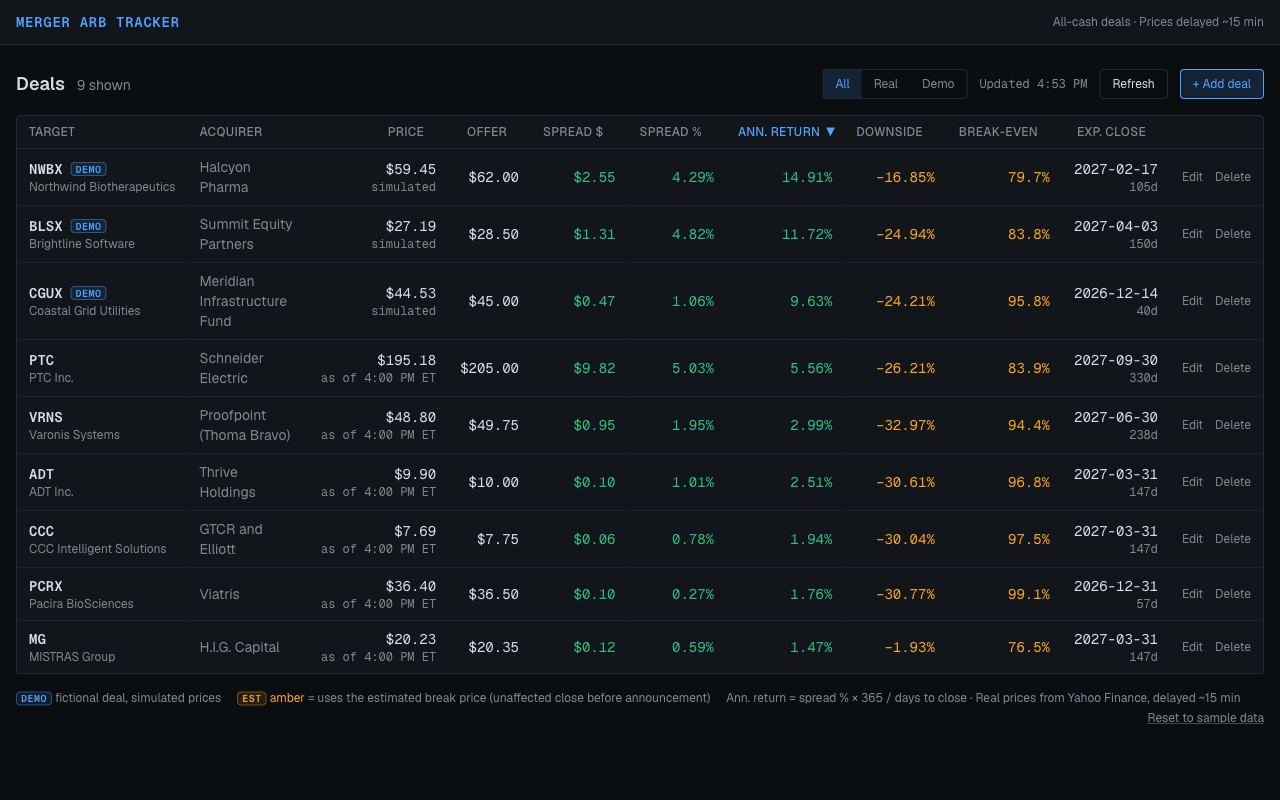
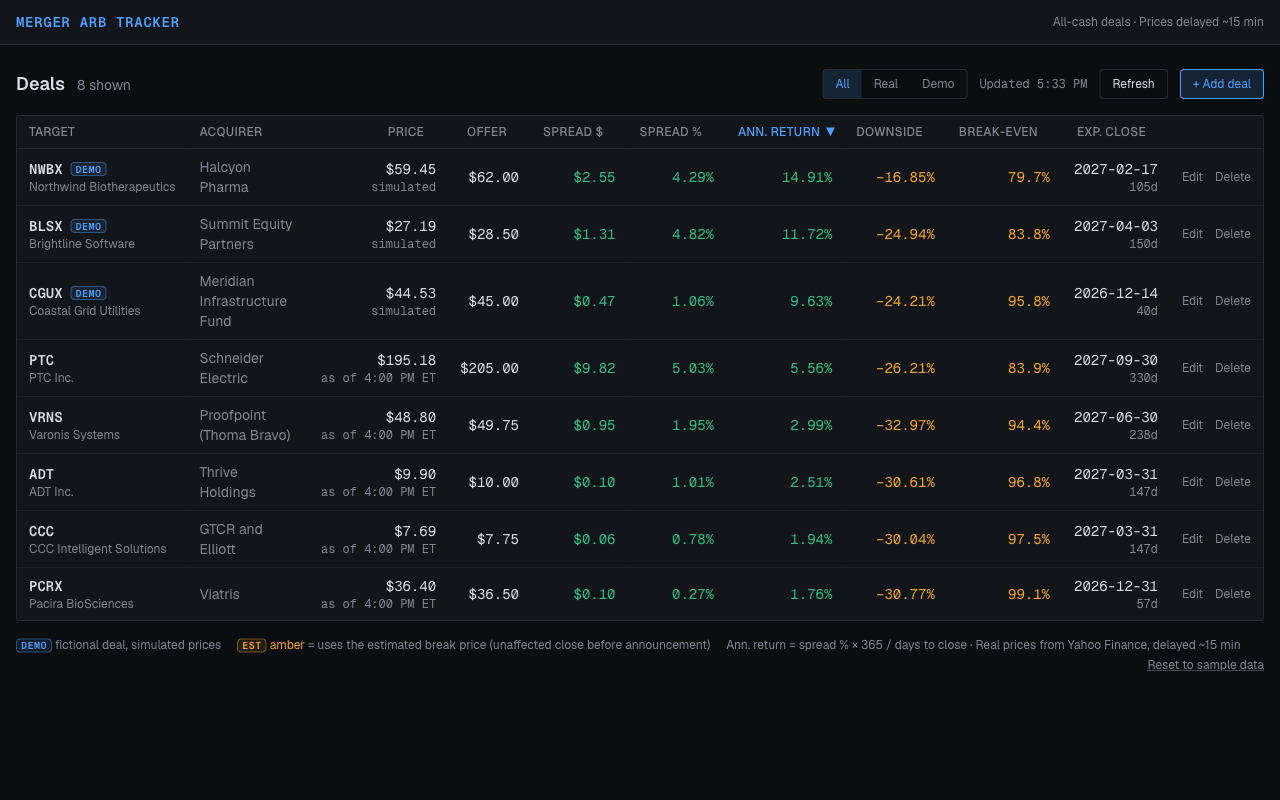
Fix review findings; drop MISTRAS from seed deals
- Deals store: v2 storage with a seed version so returning visitors get
  seed changes (user deals kept); demo deals near their close date get
  fresh dates; sync saved deals across tabs; migrate v1 data
- /api/history rejects future dates and ranges over 5 years (400)
- Add-deal works without crypto.randomUUID (non-HTTPS pages)
- Failed unaffected-price lookups retry on Refresh
- Only render http(s) source links; add engines node >= 22
- Drop MISTRAS (MG): its filing gives no unaffected date, so its
  downside was understated; update README, screenshot, CLAUDE.md

diff --git a/lib/deals.ts b/lib/deals.ts
@@ -5,14 +5,24 @@
 // re-renders every subscriber. No state library needed.
 import { useSyncExternalStore } from "react";
 import seedDeals from "@/data/seed-deals.json";
-import { todayInNewYork } from "./calc";
+import { daysBetween, todayInNewYork } from "./calc";
 import { createDemoDeals } from "./demo";
 import type { Deal } from "./types";
 
-const STORAGE_KEY = "merger-arb-deals-v1";
+const STORAGE_KEY = "merger-arb-deals-v2";
+const LEGACY_STORAGE_KEY = "merger-arb-deals-v1"; // plain array, before seed versions
+
+/** Bump when data/seed-deals.json changes, so returning visitors pick the changes up. */
+const SEED_VERSION = 1;
+
+/** A demo deal this close to its expected close date (or past it) gets fresh dates. */
+const DEMO_REFRESH_DAYS = 7;
+
+type Stored = { seedVersion: number; deals: Deal[] };
 
 let cache: Deal[] | null = null;
 const listeners = new Set<() => void>();
+let storageBound = false;
 
 function seed(): Deal[] {
   return [...(seedDeals as Deal[]), ...createDemoDeals(todayInNewYork())];
@@ -34,25 +44,72 @@ function isDeal(x: unknown): x is Deal {
   );
 }
 
-function load(): Deal[] {
+function readStored(): Stored | null {
   try {
     const raw = localStorage.getItem(STORAGE_KEY);
     if (raw) {
       const parsed = JSON.parse(raw);
-      // Keep the valid deals and drop the rest.
-      if (Array.isArray(parsed)) return parsed.filter(isDeal);
+      if (parsed && Array.isArray(parsed.deals) && typeof parsed.seedVersion === "number") {
+        // Keep the valid deals and drop the rest.
+        return { seedVersion: parsed.seedVersion, deals: parsed.deals.filter(isDeal) };
+      }
+    }
+    const legacy = localStorage.getItem(LEGACY_STORAGE_KEY);
+    if (legacy) {
+      const parsed = JSON.parse(legacy);
+      if (Array.isArray(parsed)) return { seedVersion: 0, deals: parsed.filter(isDeal) };
     }
   } catch {
     // Unreadable or corrupt storage: fall through to the seed data.
   }
-  const deals = seed();
-  persist(deals);
+  return null;
+}
+
+/**
+ * Brings stored deals up to date without touching the user's own changes:
+ *  - a newer seed version adds/replaces the seeded real deals (by id); user-added deals stay
+ *  - demo deals about to pass their close date get regenerated dates, so the demo never reads "past expected close"
+ */
+function refresh(stored: Stored): { deals: Deal[]; changed: boolean } {
+  let deals = stored.deals;
+  let changed = stored.seedVersion !== SEED_VERSION;
+
+  if (stored.seedVersion < SEED_VERSION) {
+    const fresh = seedDeals as Deal[];
+    const freshIds = new Set(fresh.map((d) => d.id));
+    deals = [...deals.filter((d) => !freshIds.has(d.id)), ...fresh];
+  }
+
+  const today = todayInNewYork();
+  const freshDemos = new Map(createDemoDeals(today).map((d) => [d.id, d]));
+  deals = deals.map((d) => {
+    const fresh = d.isDemo ? freshDemos.get(d.id) : undefined;
+    if (!fresh) return d;
+    const left = daysBetween(today, d.expectedCloseDate);
+    if (left !== null && left > DEMO_REFRESH_DAYS) return d;
+    changed = true;
+    return fresh;
+  });
+
+  return { deals, changed };
+}
+
+function load(): Deal[] {
+  const stored = readStored();
+  if (!stored) {
+    const deals = seed();
+    persist(deals);
+    return deals;
+  }
+  const { deals, changed } = refresh(stored);
+  if (changed) persist(deals);
   return deals;
 }
 
 function persist(deals: Deal[]): void {
   try {
-    localStorage.setItem(STORAGE_KEY, JSON.stringify(deals));
+    const stored: Stored = { seedVersion: SEED_VERSION, deals };
+    localStorage.setItem(STORAGE_KEY, JSON.stringify(stored));
   } catch {
     // Storage blocked (e.g. private mode): the app still works for this session.
   }
@@ -86,6 +143,15 @@ export function deleteDeal(id: string): void {
 
 function subscribe(listener: () => void): () => void {
   listeners.add(listener);
+  // Another tab changed the stored list: drop our copy so we don't overwrite its changes later.
+  if (!storageBound) {
+    storageBound = true;
+    window.addEventListener("storage", (e) => {
+      if (e.key !== null && e.key !== STORAGE_KEY) return;
+      cache = null;
+      listeners.forEach((l) => l());
+    });
+  }
   return () => listeners.delete(listener);
 }
 

diff --git a/app/api/history/route.ts b/app/api/history/route.ts
@@ -7,6 +7,7 @@ import { daysBetween, todayInNewYork, type PricePoint } from "@/lib/calc";
 const yf = new YahooFinance({ suppressNotices: ["yahooSurvey"] });
 
 const SYMBOL_RE = /^[A-Z0-9.\-^=]{1,15}$/;
+const MAX_HISTORY_DAYS = 5 * 366;
 
 async function fetchHistory(symbol: string, from: string): Promise<PricePoint[] | null> {
   "use cache";
@@ -35,8 +36,17 @@ export async function GET(request: Request) {
   if (!SYMBOL_RE.test(symbol)) {
     return Response.json({ error: "Provide a valid ?symbol=" }, { status: 400 });
   }
-  if (daysBetween(from, todayInNewYork()) === null) {
+  const today = todayInNewYork();
+  const age = daysBetween(from, today); // days from `from` to today
+  if (age === null) {
     return Response.json({ error: "Provide ?from=YYYY-MM-DD" }, { status: 400 });
+  }
+  // Bound the range: deals are recent, and an open-ended `from` makes this an open Yahoo proxy.
+  if (age < 0) {
+    return Response.json({ error: "?from can't be in the future" }, { status: 400 });
+  }
+  if (age > MAX_HISTORY_DAYS) {
+    return Response.json({ error: "?from can be at most 5 years back" }, { status: 400 });
   }
 
   try {

diff --git a/components/DealForm.tsx b/components/DealForm.tsx
@@ -25,6 +25,13 @@ type TickerCheck =
 
 const SYMBOL_RE = /^[A-Z0-9.\-^=]{1,15}$/;
 
+// crypto.randomUUID only exists on HTTPS/localhost pages (e.g. not the dev server's LAN address).
+function newId(): string {
+  return typeof crypto.randomUUID === "function"
+    ? crypto.randomUUID()
+    : `deal-${Date.now().toString(36)}-${Math.random().toString(36).slice(2, 10)}`;
+}
+
 function toFields(deal: Deal | null): Fields {
   return {
     targetTicker: deal?.targetTicker ?? "",
@@ -151,7 +158,7 @@ export function DealForm({
     const unaffectedDate = fields.unaffectedDate.trim() || undefined;
     const sourceUrl = fields.sourceUrl.trim() || undefined;
     onSave({
-      id: deal?.id ?? crypto.randomUUID(),
+      id: deal?.id ?? newId(),
       isDemo,
       targetTicker: fields.targetTicker.trim().toUpperCase(),
       targetName: fields.targetName.trim(),

diff --git a/lib/useMarketData.ts b/lib/useMarketData.ts
@@ -95,11 +95,13 @@ export function useMarketData(deals: Deal[] | null) {
       if (requested.current.has(key)) continue;
       requested.current.add(key);
       const [ticker, announceDate, unaffectedDate] = key.split("|");
-      fetchUnaffectedPrice(ticker, announceDate, unaffectedDate || undefined).then((price) =>
-        setUnaffected((prev) => ({ ...prev, [key]: price })),
-      );
+      fetchUnaffectedPrice(ticker, announceDate, unaffectedDate || undefined).then((price) => {
+        // A failed lookup isn't remembered: the next Refresh tries again.
+        if (price === null) requested.current.delete(key);
+        setUnaffected((prev) => ({ ...prev, [key]: price }));
+      });
     }
-  }, [needKey]);
+  }, [needKey, refreshCount]);
 
   const current = quoteResult?.key === requestKey ? quoteResult : null;
   return {

diff --git a/components/DealDetail.tsx b/components/DealDetail.tsx
@@ -164,7 +164,8 @@ export function DealDetail({ id }: { id: string }) {
         <Term
           label="Source"
           value={
-            deal.sourceUrl ? (
+            // Only http(s) links are rendered, whatever is in storage.
+            deal.sourceUrl && /^https?:\/\//i.test(deal.sourceUrl) ? (
               <a href={deal.sourceUrl} target="_blank" rel="noopener noreferrer" className="text-accent hover:underline">
                 Announcement ↗
               </a>

diff --git a/CLAUDE.md b/CLAUDE.md
@@ -21,13 +21,13 @@ app/api/quotes/route.ts    Latest prices for a list of tickers
 app/api/history/route.ts   Daily closes for one ticker
 lib/types.ts               Deal type
 lib/calc.ts                ALL financial math (pure functions) + calc.test.ts
-lib/deals.ts               localStorage store: useDeals() hook, setDeals(), resetDeals()
-lib/demo.ts                Demo deals (dates relative to first visit) + deterministic fake prices
+lib/deals.ts               localStorage store (v2 key, seedVersion): useDeals() hook, setDeals(), resetDeals(); syncs across tabs; refreshes demo deals nearing close
+lib/demo.ts                Demo deals (dates relative to when generated) + deterministic fake prices
 lib/dealRow.ts             buildRow(): deal + market data → price, break price, metrics (table + detail)
 lib/format.ts              Display formatting (usd, pct, sign colors, as-of time)
 lib/useMarketData.ts       Client hook: live quotes + unaffected prices for real deals, refresh()
 components/                DealTable, DealDetail, DealForm, SpreadChart, Badge
-data/seed-deals.json       Real deals seeded on first visit (existing browsers keep their stored list: use "Reset to sample data" to pick up seed changes). Terms come from SEC 8-K exhibits; expected close = end of the company-guided window.
+data/seed-deals.json       Real deals seeded on first visit. When you change this file, bump SEED_VERSION in lib/deals.ts so returning visitors get the changes (user-added deals are kept). Terms come from SEC 8-K exhibits; expected close = end of the company-guided window.
 scripts/check-data.ts      Manual Yahoo data check
 ```
 
@@ -65,3 +65,9 @@ Rules:
   - `npm run lint` and `npm run build` must be clean
   - `npm run dev` and check the affected page or route in the browser (or with `curl` for API routes)
 - Don't commit unless asked.
+
+## Status (update at the end of each phase)
+- Phases 0-10 are done and pushed. After the Phase 10 code review, the three main findings plus the small ones were fixed (uncommitted until the owner says so): demo deals refresh and a seed version updates returning visitors; saved deals sync across tabs; `/api/history` rejects future dates and ranges over 5 years; `crypto.randomUUID` fallback; failed unaffected-price lookups retry on Refresh; `sourceUrl` re-checked when rendered; `engines` added.
+- Not done from the review: tests for form validation, the `isDeal` guard and key parsing (Vitest can't import `deals.ts` without a `@/` alias).
+- MISTRAS (MG) was dropped from the seed deals: its filing gives no unaffected date, so its downside would have been understated.
+- Next: Phase 11 (deploy to Vercel; plan is in `~/.claude/plans/`). Needs the owner's Vercel account. The one unverified risk is Yahoo Finance blocking Vercel's servers; the fallback is a Tiingo free key (not built).

diff --git a/README.md b/README.md
@@ -10,7 +10,7 @@ A dashboard for tracking announced **all-cash M&A deals** the way an event-drive
 - **Deal management.** Add, edit, and delete deals. Typing a ticker checks it against market data, fills in the company name, and suggests a break price.
 - **Deal analysis.** A detail page per deal with the metrics above, an editable break price that recalculates live, and a plain-English summary of the trade.
 - **Spread history.** A chart of how each deal's spread has moved since announcement, with a table of the underlying data.
-- **Real and demo data.** Six real pending deals (terms from SEC 8-K filings, each with a source link) and three clearly labeled fictional demo deals.
+- **Real and demo data.** Five real pending deals (terms from SEC 8-K filings, each with a source link) and three clearly labeled fictional demo deals.
 
 ![Deal detail](docs/screenshots/deal-detail.png)
 
@@ -69,7 +69,6 @@ Companies guide closing as a window ("Q1 2027"). The seeded deals use the **end*
 | ADT (ADT) | Thrive Holdings | $10.00 | Oct 29, 2026 |
 | CCC Intelligent Solutions (CCC) | GTCR and Elliott | $7.75 | Oct 15, 2026 |
 | Pacira BioSciences (PCRX) | Viatris | $36.50 | Oct 8, 2026 |
-| MISTRAS Group (MG) | H.I.G. Capital | $20.35 | Sep 18, 2026 |
 
 These are a snapshot, not a live deal feed. Deal terms change (offer increases, extended timelines) and nothing here updates them. Check the linked filing before relying on a number.
 
